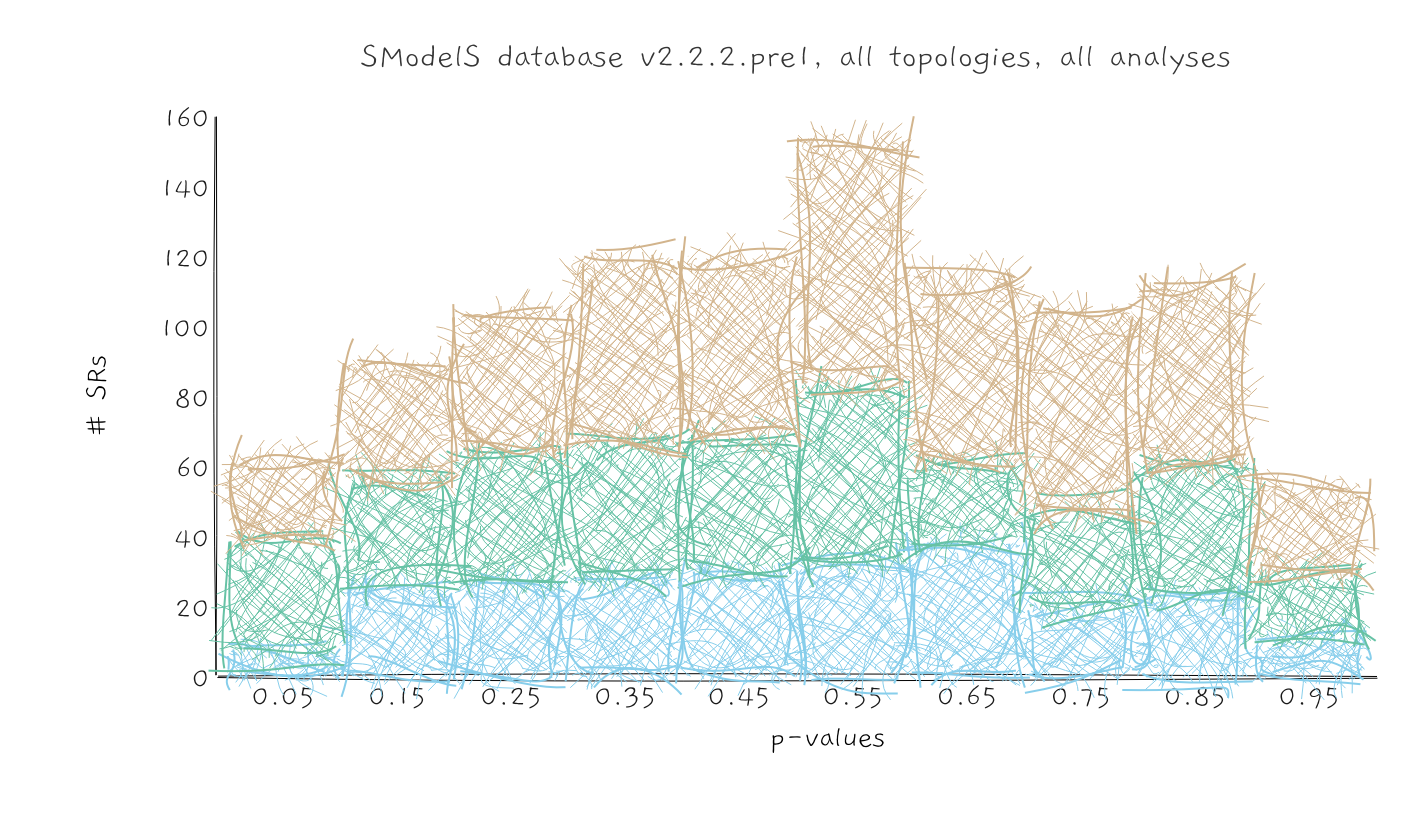
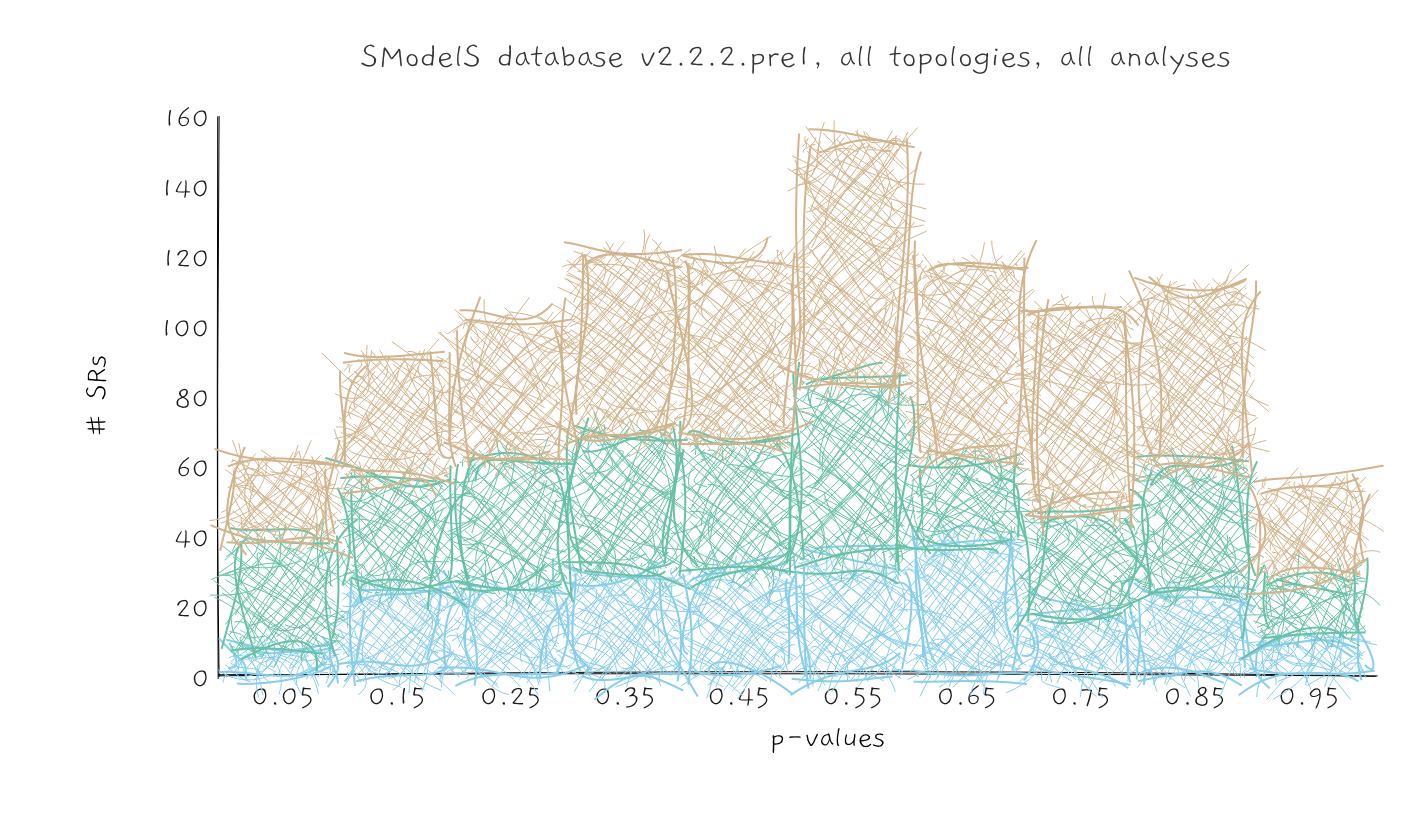
pvalues

Changed region(s): [[0.1243, 0.1532, 0.9944, 0.8578]]

diff --git a/docs/ListOfAnalyses222pre1.md b/docs/ListOfAnalyses222pre1.md
@@ -3,7 +3,7 @@ List of analyses and topologies in the SMS results database, comprising 5471 ind
 The list has been created from the database version `2.2.2.pre1.`
 There is also an  [sms dictionary](SmsDictionary222pre1) and a [validation page](Validation222pre1).
 Link to list of results [including superseded and fastlim results](ListOfAnalyses222pre1WithSuperseded).
-
+![plots/pvalues222pre1.png](plots/pvalues222pre1.png?1674057285.9566162)
 ## Individual tables
 
 ### Run 2 - 13 TeV
@@ -241,4 +241,4 @@ In total, we have results from 15 ATLAS and 18 CMS 8 TeV searches.
 
 <a name='A4'>(4)</a> Likelihood information for combination of signal regions ('SR comb.'): 'SLv1' = a covariance matrix for a simplified likelihood v1. 'SLv2' = a covariance matrix plus third momenta for simplified likelihood v2. 'json' = full likelihoods as pyhf json files.
 
-This page was created Wed Jan 18 11:55:57 2023.
+This page was created Wed Jan 18 16:54:45 2023.
